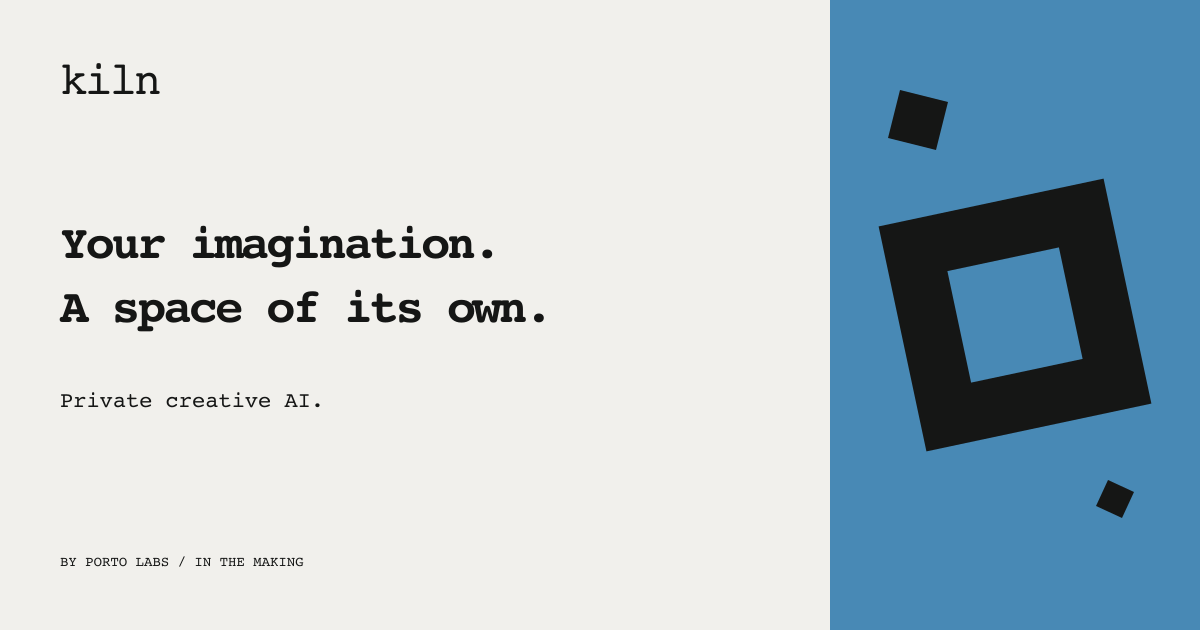
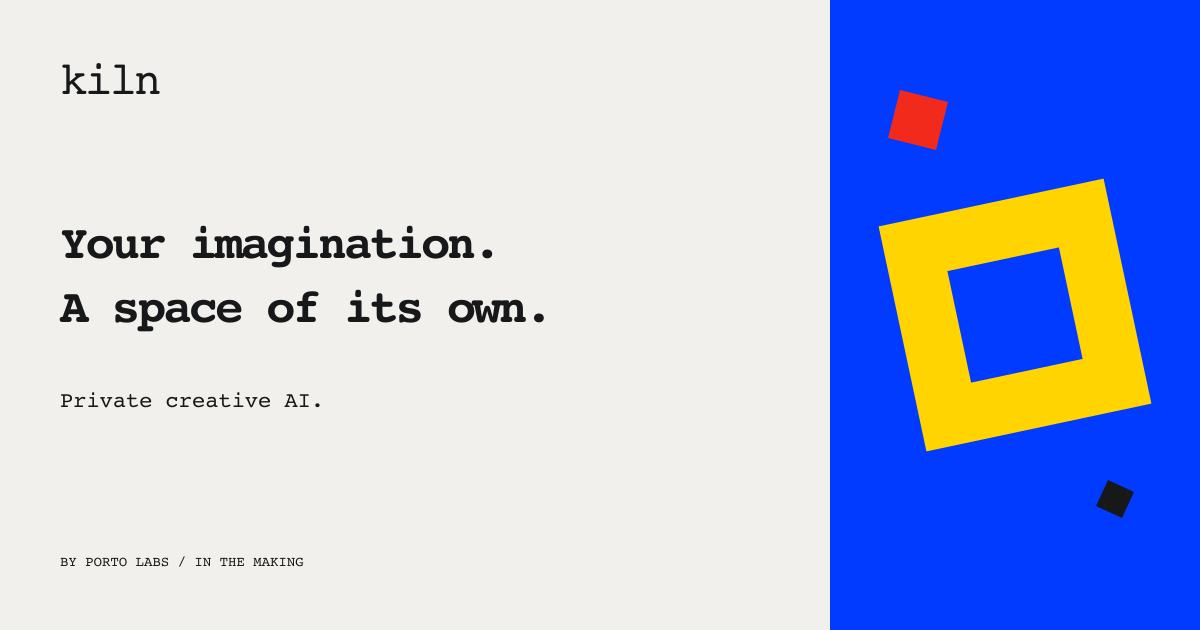
style(landing): apply Kiln primary colour palette

diff --git a/src/styles/global.css b/src/styles/global.css
@@ -1,5 +1,5 @@
 @font-face { font-family: 'IBM Plex Mono'; src: url('/fonts/ibm-plex-mono.ttf') format('truetype'); font-style: normal; font-weight: 400; font-display: swap; }
-:root { --background: #f1f0ec; --ink: #151615; --muted: #555650; --blue: #4889b5; --line: #15161533; --mono: 'IBM Plex Mono', monospace; }
+:root { --background: #f1f0ec; --ink: #171819; --muted: #555650; --blue: #003bff; --red: #f12a1c; --yellow: #ffd400; --line: #17181933; --mono: 'IBM Plex Mono', monospace; }
 * { margin: 0; padding: 0; box-sizing: border-box; }
 html { scroll-behavior: smooth; scroll-padding-top: 28px; }
 body { background: var(--background); color: var(--ink); font: 16px/1.6 Arial, Helvetica, sans-serif; -webkit-font-smoothing: antialiased; }
@@ -26,30 +26,32 @@ button { cursor: pointer; }
 .kiln-hero-inner { padding-block: 96px 136px; }
 .kiln-eyebrow { font: 11px/1.6 var(--mono); letter-spacing: .06em; text-transform: uppercase; }
 .kiln-hero .kiln-eyebrow { display: flex; align-items: center; gap: 10px; margin-bottom: 32px; }
-.kiln-signal { width: 6px; height: 6px; background: var(--ink); }
+.kiln-signal { width: 6px; height: 6px; background: var(--red); }
 .kiln-hero h1 { position: relative; max-width: 850px; font: 700 clamp(42px, 4.4vw, 72px)/1.12 var(--mono); letter-spacing: -.065em; }
 .kiln-intro { position: relative; max-width: 410px; font-size: 17px; line-height: 1.65; margin-top: 32px; }
+.kiln-hero .kiln-button { background: var(--yellow); border-color: var(--yellow); color: var(--ink); }
+.kiln-hero .kiln-button:hover { background: #f3c900; border-color: #f3c900; }
 .kiln-actions { position: relative; display: flex; align-items: center; gap: 32px; margin-top: 36px; }
 .kiln-button { display: inline-flex; justify-content: space-between; align-items: center; gap: 26px; min-height: 52px; padding: 14px 22px; border: 1px solid var(--ink); border-radius: 0; background: var(--ink); color: var(--background); font: 12px/1.5 var(--mono); white-space: nowrap; }
 .kiln-button:hover { background: #31332f; text-decoration: none; }
 .kiln-button:disabled { cursor: wait; opacity: .65; }
 .kiln-text-link { display: inline-flex; align-items: center; gap: 22px; min-height: 48px; font: 12px/1.5 var(--mono); }
 .kiln-art { position: absolute; z-index: -1; inset: 0 0 0 64%; background: var(--blue); overflow: hidden; }
-.kiln-aperture { position: absolute; width: 66%; aspect-ratio: 1; top: 29%; left: 17%; background: var(--ink); transform: rotate(-12deg); }
+.kiln-aperture { position: absolute; width: 66%; aspect-ratio: 1; top: 29%; left: 17%; background: var(--yellow); transform: rotate(-12deg); }
 .kiln-aperture::after { content: ''; position: absolute; inset: 24%; background: var(--blue); }
 .kiln-fragment { position: absolute; display: block; background: var(--ink); aspect-ratio: 1; }
-.kiln-fragment-one { width: 15%; left: 16%; top: 16%; transform: rotate(14deg); }
+.kiln-fragment-one { background: var(--red); width: 15%; left: 16%; top: 16%; transform: rotate(14deg); }
 .kiln-fragment-two { width: 8%; right: 15%; bottom: 21%; transform: rotate(24deg); }
-.kiln-art-caption { position: absolute; left: 20px; right: 20px; bottom: 94px; text-align: center; font: 9px/1.5 var(--mono); letter-spacing: .08em; }
+.kiln-art-caption { color: var(--background); position: absolute; left: 20px; right: 20px; bottom: 94px; text-align: center; font: 9px/1.5 var(--mono); letter-spacing: .08em; }
 .kiln-hero-foot { position: absolute; bottom: 20px; left: 0; right: 0; display: flex; justify-content: space-between; align-items: center; font: 10px/1.5 var(--mono); letter-spacing: .04em; }
-.kiln-hero-foot a { display: inline-flex; align-items: center; gap: 20px; min-height: 44px; }
+.kiln-hero-foot a { color: var(--background); display: inline-flex; align-items: center; gap: 20px; min-height: 44px; }
 .kiln-join { width: 100%; margin: 0; border-block: 1px solid var(--line); display: grid; grid-template-columns: 1fr 1fr; gap: 9%; padding: 80px max(56px, calc((100% - 1440px) / 2)) 56px; }
 .kiln-join .kiln-eyebrow { color: var(--muted); margin-bottom: 24px; }
 .kiln-join h2 { font: 700 clamp(34px, 3.4vw, 52px)/1.15 var(--mono); letter-spacing: -.055em; }
 .kiln-signup > p { font-size: 16px; margin-bottom: 24px; }
 .kiln-signup label { display: block; margin-bottom: 9px; font: 11px/1.6 var(--mono); }
 .kiln-form-row { display: flex; gap: 10px; }
-.kiln-form-row input { min-width: 0; width: 100%; border: 1px solid #15161580; border-radius: 0; background: transparent; color: var(--ink); padding: 14px; font-size: 16px; }
+.kiln-form-row input { min-width: 0; width: 100%; border: 1px solid #17181980; border-radius: 0; background: transparent; color: var(--ink); padding: 14px; font-size: 16px; }
 .kiln-form-row input::placeholder { color: var(--muted); }
 .kiln-small { font-size: 12px; color: var(--muted); line-height: 1.6; }
 #signup-note { margin-top: 14px; max-width: 400px; }
@@ -98,7 +100,7 @@ button { cursor: pointer; }
   .kiln-fragment-one { width: 38px; top: 28px; left: 20%; }
   .kiln-fragment-two { width: 22px; bottom: 90px; right: 20%; }
   .kiln-art-caption { bottom: 22px; font-size: 8px; }
-  .kiln-hero-foot { bottom: 24px; }
+  .kiln-hero-foot { bottom: 24px; color: var(--background); }
   .kiln-join { width: 100%; grid-template-columns: 1fr; gap: 32px; padding: 52px 20px 30px; }
   .kiln-join h2 br { display: none; }
   .kiln-footer { align-items: flex-start; flex-direction: column; gap: 14px; }

diff --git a/gatsby-config.js b/gatsby-config.js
@@ -12,7 +12,7 @@ module.exports = {
         short_name: `Kiln`,
         start_url: `/`,
         background_color: `#f1f0ec`,
-        theme_color: `#4889b5`,
+        theme_color: `#003bff`,
         display: `standalone`,
         icon: `static/favicon.png`,
       },

diff --git a/docs/CONTENT-SOURCES.md b/docs/CONTENT-SOURCES.md
@@ -6,7 +6,7 @@ The founder requested alignment with the linked Kiln for Creative Studios Figma 
 
 Reference: https://www.figma.com/deck/gGykvFL4L6tuTmfFiGkPZR/Kiln-%E2%80%94-For-Creative-Studios?node-id=3-2
 
-The cover and workflow/next-step slides were inspected in the browser. The page adopts their paper, black, blue, monospaced headings and restrained editorial layout. Web palette values (#F1F0EC, #151615, #4889B5) are visual approximations, not exported Figma tokens. The lowercase live-text kiln wordmark is a typographic treatment; it does not claim to be an exact export of the deck logo. Abstract square artwork is original CSS, with a matching social preview. No hardware imagery, private slides, confidential slide copy or performance claims are published.
+The cover and workflow/next-step slides were inspected in the browser. The page adopts their paper, black, blue, monospaced headings and restrained editorial layout. The paper background (#F1F0EC) follows the Figma reference. A subsequent founder-supplied One & Atelier design and engineering PDF, Appendix E (page 27), supplies the exact digital palette: red #F12A1C, yellow #FFD400, blue #003BFF and black #171819. These supersede the initial approximate blue and black. The page uses blue for its abstract art panel, yellow for its aperture and hero waitlist button, red for the smaller fragment and signal, and black for text. Colours are used decoratively and do not encode product state. The private PDF and its hardware renders are not published. The lowercase live-text kiln wordmark is a typographic treatment; it does not claim to be an exact export of the deck logo. Abstract square artwork is original CSS, with a matching social preview. No hardware imagery, private slides, confidential slide copy or performance claims are published.
 
 Headline: “Your imagination. A space of its own.” Supporting copy: “Private creative AI. Something new is taking shape at Kiln.” Retain the earlier invitation and stealth framing as narrative value. Product availability and launch dates remain unstated.
 

diff --git a/README.md b/README.md
@@ -1,6 +1,6 @@
 # Kiln by Porto Labs
 
-A minimal, responsive stealth landing page for a creative system in development. The page follows the founder-linked Kiln Creative Studios deck, using paper, black, blue and monospaced headings and keeps two conversion paths: the email waitlist and `/book/` appointment booking.
+A minimal, responsive stealth landing page for a creative system in development. The page follows the founder-linked Kiln Creative Studios deck, using paper, black, red, yellow, blue and monospaced headings and keeps two conversion paths: the email waitlist and `/book/` appointment booking.
 
 Current copy, asset provenance and historical context are documented in [CLAUDE.md](CLAUDE.md) and [docs/CONTENT-SOURCES.md](docs/CONTENT-SOURCES.md).
 
